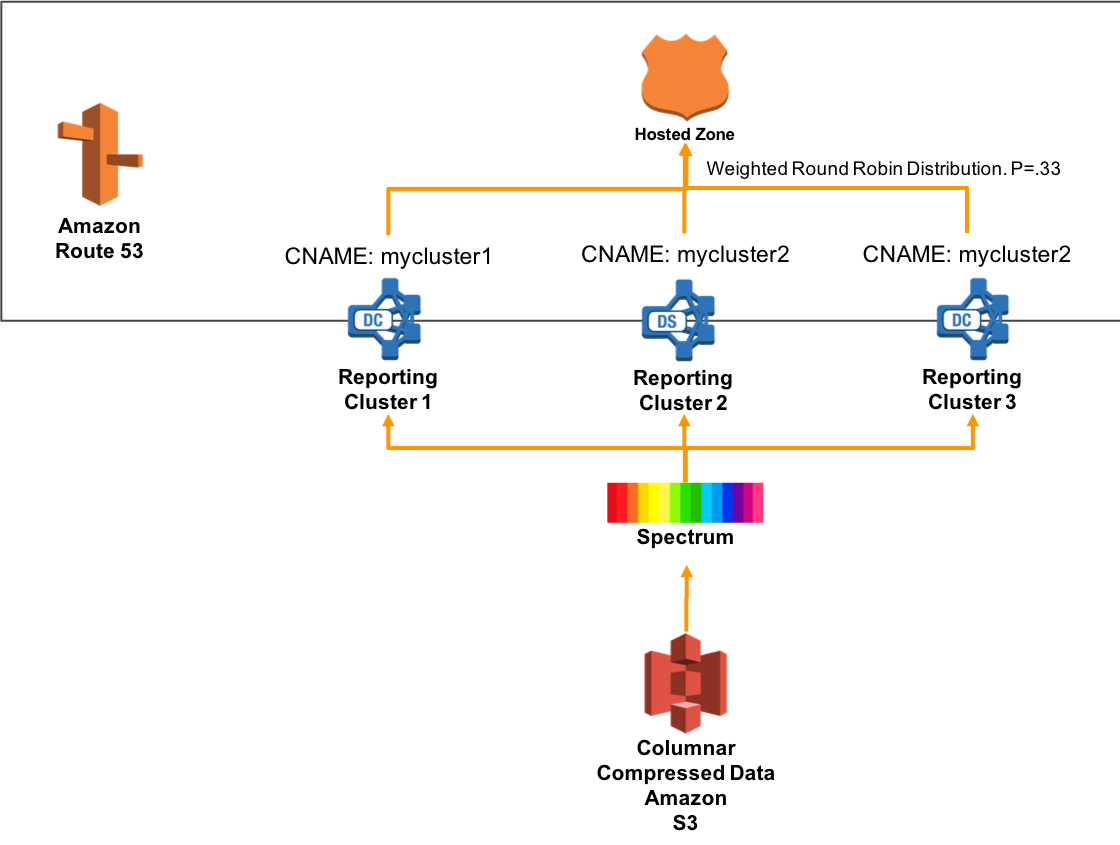
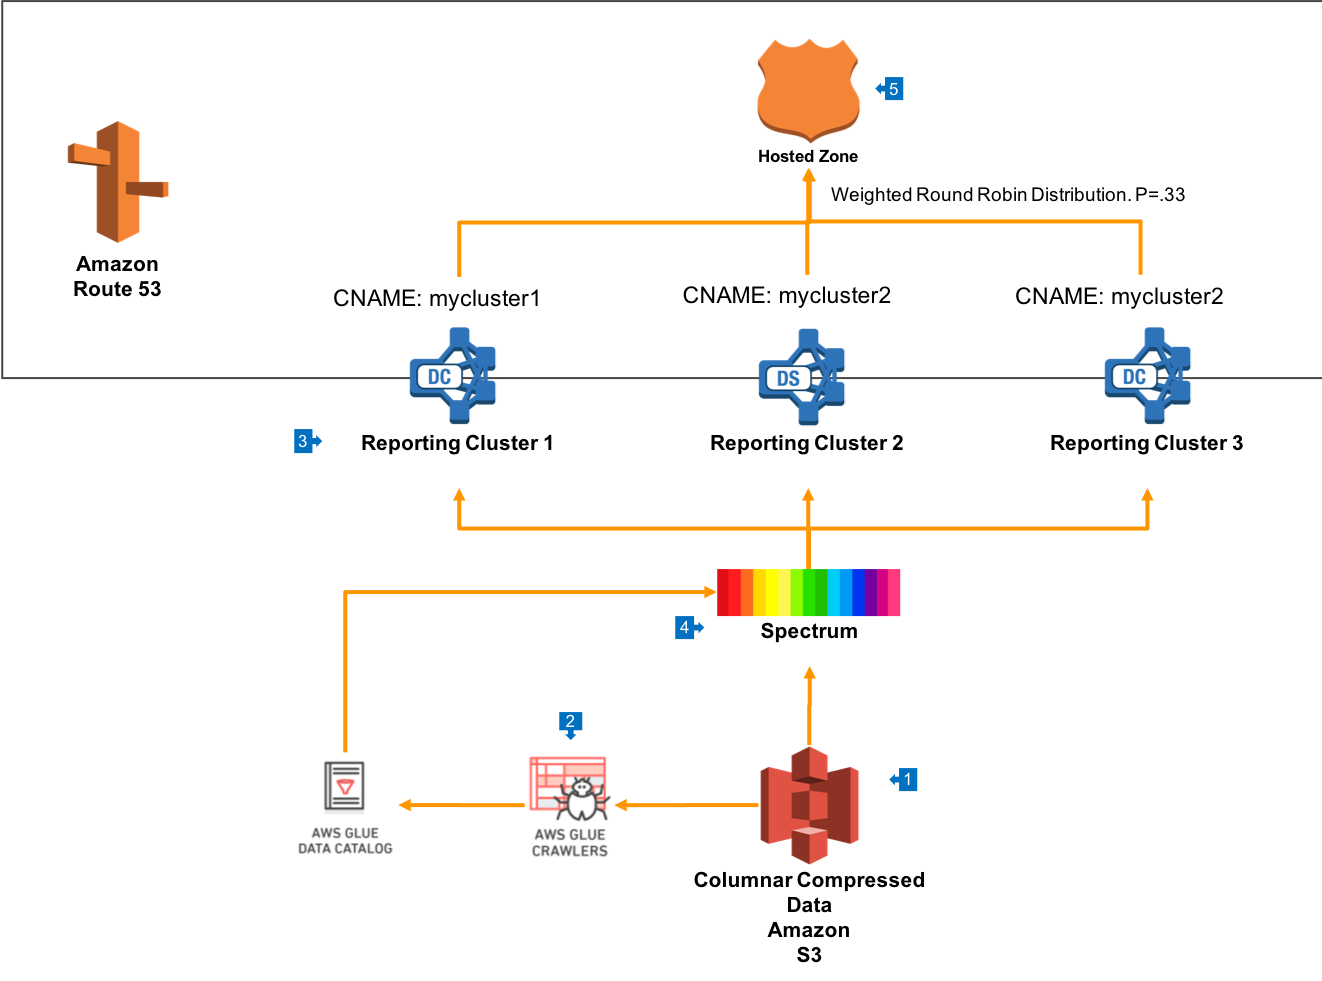
Adding new top level sections and renaming some sections. Updates to core docs.

diff --git a/README.md b/README.md
@@ -10,13 +10,13 @@ This project provides you with an overview of the most common deployment models 
 
 <table><tr><td><a href="https://github.com/aws-samples/aws-dbs-refarch-redshift/tree/master/star-schema"><img src="https://github.com/aws-samples/aws-dbs-refarch-redshift/blob/master/star-schema/thumbnail.png"/></a></td><td>
 
-Star schemas, or more formally Kimball Models, offer a powerful ability to perform multi-dimensional analysis of vast structured datasets. Star schemas are simple to model using industry standard data modelling, and which are extremely performant on Redshift.
+Star schemas offer a powerful ability to perform multi-dimensional analysis of vast structured datasets. Star schemas are simple to use with a variety of industry standard data tools, and are extremely performant on Redshift.
 
 </td></tr></table>
 
-### [ODS & Aggregation Models](inmon-model)
+### [ODS & Aggregation Models](ods-aggregation)
 
-<table><tr><td><a href="https://github.com/aws-samples/aws-dbs-refarch-redshift/tree/master/inmon-model"><img src="https://github.com/aws-samples/aws-dbs-refarch-redshift/blob/master/inmon-model/thumbnail.png"/></a></td><td>
+<table><tr><td><a href="https://github.com/aws-samples/aws-dbs-refarch-redshift/tree/master/ods-aggregation"><img src="https://github.com/aws-samples/aws-dbs-refarch-redshift/blob/master/ods-aggregation/thumbnail.png"/></a></td><td>
 
 Many workloads on Redshift copy all Operational Data Stores (ODS) onto a single platform where reporting can be easily done across system lines, and where simple aggregations of business data can be calculated. This architecture shows you how to build an 'all-your-data-in-one-place' model.
 
@@ -24,7 +24,7 @@ Many workloads on Redshift copy all Operational Data Stores (ODS) onto a single 
 
 ## Deployment Architectures
 
-Because AWS Services are designed to work together, the service is largely consistent in how it's deployed, and you don't have to make many architectural decisions. However, you do have to decide how to deploy them within your VPC. The following architectures provide common patterns for how customers deploy 
+Because AWS Services are designed to work together, Redshift is consistent in how it's deployed, and you don't have to make many architectural decisions. However, you do have to decide where to deploy it within your VPC. The following architectures provide common patterns for how customers deploy Redshift within their networking environment to achieve their primary aims around security, connectivity, and performance.
 
 ### [Simple, Single Cluster with Public Routing](public-routing)
 
@@ -43,6 +43,8 @@ This is perhaps the most common deployment architecture for Redshift clusters - 
 </td></tr></table>
 
 ## Architectures for Scaling
+
+Redshift supports horizontal scaling by adding and removing nodes from a cluster. It providers the [Workload Management System](https://docs.aws.amazon.com/redshift/latest/dg/c_workload_mngmt_classification.html) to provide workload prioritisation and control. In some cases, you may wish to provide multiple clusters across your user base to provide for specific SLA's or isolation characteristics.
 
 ### [Multiple Business Line Clusters](business-line-clusters)
 
@@ -70,6 +72,16 @@ In some cases, you'll want to expose data from Redshift to applications and webs
 
 ## Integrating with Other AWS Services
 
+Amazon Redshift can integrate with a variety of other AWS services for the purposes of data ingestion, reporting & visualisation, or workflow and process management. The following architectures can enable this integration.
+
+### [Data Loading with Kinesis Firehose - Coming Soon](firehose-data-loading)
+
+<table><tr><td><a href="https://github.com/aws-samples/aws-dbs-refarch-redshift/tree/master/firehose-data-loading"><img src="https://github.com/aws-samples/aws-dbs-refarch-redshift/blob/master/firehose-data-loading/thumbnail.png"/></a></td><td>
+
+Data to be ingested into a data warehouse is often file based, but can also be based on streaming sources such as application logs. Kinesis Firehose provides powerful integration to load this data automatically into your data lake and data warehouse
+
+</td></tr></table>
+
 ### [Connecting with AWS Lambda](lambda-connections)
 
 <table><tr><td><a href="https://github.com/aws-samples/aws-dbs-refarch-redshift/tree/master/lambda-connections"><img src="https://github.com/aws-samples/aws-dbs-refarch-redshift/blob/master/lambda-connections/thumbnail.png"/></a></td><td>
@@ -77,6 +89,15 @@ In some cases, you'll want to expose data from Redshift to applications and webs
 [AWS Lambda](https://aws.amazon.com/lambda) lets you run code without provisioning or managing servers. You pay only for the compute time you consume - there is no charge when your code is not running. AWS Lambda can be used as a powerful workflow or compute engine with data, and connecting to Redshift is simple and easy.
 
 </td></tr></table>
+
+### [Data Visualisation with Quicksight](quicksight-viz)
+
+<table><tr><td><a href="https://github.com/aws-samples/aws-dbs-refarch-redshift/tree/master/quicksight-viz"><img src="https://github.com/aws-samples/aws-dbs-refarch-redshift/blob/master/quicksight-viz/thumbnail.png"/></a></td><td>
+
+[Amazon Quicksight](https://aws.amazon.com/quicksight) is a powerful data visualisation and business intelligence service that is serverless, and fully managed in the cloud. It provides the ability to create your first visualisation in as little as 60 seconds, and provides simple integration with a variety of AWS analytics services, including Redshift.
+
+</td></tr></table>
+
 
 ## License Summary
 

diff --git a/spectrum-multicluster/README.md b/spectrum-multicluster/README.md
@@ -1,3 +1,21 @@
 # Multi-Cluster Architecture leveraging Redshift Spectrum
 
+## Overview
+
+[Redshift Spectrum](https://aws.amazon.com/redshift/spectrum) enables you to run Amazon Redshift SQL queries against exabytes of data in Amazon S3, and supports both structured and unstructured data. In this architecture, we'll see how we can leverage Redshift Spectrum to enable scale-out of unlimited size with a single unified endpoint.
+
 ![Spectrum multi-cluster](spectrum-multicluster.png)
+
+## Walkthrough of the Architecture
+
+1. In this architecture, your data is stored on Amazon S3 in an columnar compressed format such as [Orc or Parquet](https://docs.aws.amazon.com/redshift/latest/dg/c-spectrum-data-files.html). This data will be organised using a S3 prefix structure that enables easy navigation by business unit, as well as providing for simple security rules in S3. 
+2. This compressed data will be crawled by AWS Glue Crawlers and entered into the AWS Glue Data Catalog. This will include all the relevant file attributes to create a table, as well as [containing references to Hive Partitions based on S3 prefixes](https://docs.aws.amazon.com/glue/latest/dg/aws-glue-programming-etl-partitions.html).
+3. Create multiple Redshift Clusters, each sized for the capacity that you need to deliver to one set of end users. These clusters will typically be of heterogenous size and instance type, but can differ depending on use.
+4. [Create Redshift Spectrum External Schemas](https://docs.aws.amazon.com/redshift/latest/dg/c-spectrum-external-schemas.html) which allow each cluster to see the data in the Glue Data Catalog.
+5. If heterogenous cluster configurations are used, then it can also be useful to create a [Route53 Hosted Zone](https://docs.aws.amazon.com/Route53/latest/DeveloperGuide/CreatingHostedZone.html) which provides simple DNS names for each of the clusters. This can be used to expose each cluster to end users, as well as providing a single endpoint which is used to load balance across all clusters in the group.
+
+
+## Learn More
+
+__Top 10 Best Practices for Redshift Spectrum__: https://aws.amazon.com/blogs/big-data/10-best-practices-for-amazon-redshift-spectrum
+

diff --git a/firehose-data-loading/README.md b/firehose-data-loading/README.md
@@ -1,0 +1,1 @@
+Under Construction

diff --git a/quicksight-viz/README.md b/quicksight-viz/README.md
@@ -1,0 +1,1 @@
+Under Construction
